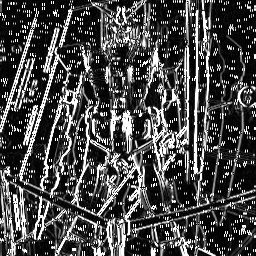
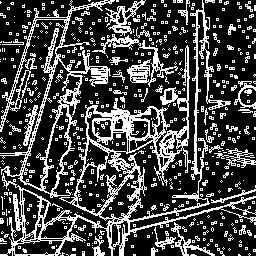
finish canny

diff --git a/hw2/README.m b/hw2/README.m
@@ -7,7 +7,9 @@
 % Email: iamyuanchung@gmail.com                                           %
 % ####################################################################### %
 % ####################################################################### %
-% Files: 1. README.m
+% Files: 1. README.m                                                      %
+%        2. sobelEdgeDetection.m                                          %
+%        ?. cannyEdgeDetection.m
 % ####################################################################### %
 % This script will first create a directory called 'rslt_images' under    %
 % current directory, and all the output .png figures will be stored       %
@@ -27,7 +29,7 @@ S8 = readraw('./raw/sample8.raw');
 
 % create a directory called 'rslt_images' and all the output .png figures
 % will be stored under it
-% mkdir('./', 'rslt_images');
+mkdir('./', 'rslt_images');
 
 % do not display figures during execution
 fig = figure;
@@ -39,22 +41,52 @@ set(fig, 'Visible', 'off');
 % ####################################################################### %
 % Implementation 1: Perform Sobel edge detection on S1, S2, and S3        %
 % M-file name: sobelEdgeDetection.m                                       %
-% Usage: [Gr, Gc, EM] = sobelEdgeDetection(G)                             %
+% Usage: [Gr, Gc, EM] = sobelEdgeDetection(G, T)                          %
 % Output: The resultant edge map(EM)                                      %
 % ####################################################################### %
 
-fprintf('\nPerforming Sobel edge detection on sample1.raw and the resultant edge map will be stored as sample1.sobel.png ...\n');
-[no_use0, no_use1, EM1] = sobelEdgeDetection(S1);
-imwrite(uint8(EM1), './rslt_images/sample1.sobel.png');
+% T1 = 100;
+% T2 = 200;
+% T3 = 150;
+% 
+% fprintf('\nPerforming Sobel edge detection on sample1.raw and the resultant edge map will be stored as sample1.sobel.png ...\n');
+% [no_use0, no_use1, EM1] = sobelEdgeDetection(S1, T1);
+% imwrite(uint8(EM1), './rslt_images/sample1.sobel.png');
+% 
+% fprintf('\nPerforming Sobel edge detection on sample2.raw and the resultant edge map will be stored as sample2.sobel.png ...\n');
+% [no_use2, no_use3, EM2] = sobelEdgeDetection(S2, T2);
+% imwrite(uint8(EM2), './rslt_images/sample2.sobel.png');
+% 
+% fprintf('\nPerforming Sobel edge detection on sample3.raw and the resultant edge map will be stored as sample3.sobel.png ...\n');
+% [no_use4, no_use5, EM3] = sobelEdgeDetection(S3, T3);
+% imwrite(uint8(EM3), './rslt_images/sample3.sobel.png');
 
-fprintf('\nPerforming Sobel edge detection on sample2.raw and the resultant edge map will be stored as sample2.sobel.png ...\n');
-[no_use2, no_use3, EM2] = sobelEdgeDetection(S2);
-imwrite(uint8(EM2), './rslt_images/sample2.sobel.png');
+% ####################################################################### %
+% Implementation 3: Perform Canny edge detection on S1, S2, and S3        %
+% M-file name: cannyEdgeDetection.m                                       %
+% Usage: EM = cannyEdgeDetection(G, T_high, T_low)                        %
+% Output: The resultant edge map(EM)                                      %
+% ####################################################################### %
 
-fprintf('\nPerforming Sobel edge detection on sample3.raw and the resultant edge map will be stored as sample3.sobel.png ...\n');
-[no_use4, no_use5, EM3] = sobelEdgeDetection(S3);
-imwrite(uint8(EM3), './rslt_images/sample3.sobel.png');
-
+% T1_low = 20;
+% T1_high = 80;
+% T2_low = 20;
+% T2_high = 80;
+% T3_low = 20;
+% T3_high = 80;
+% 
+% fprintf('\nPerforming Canny edge detection on sample1.raw and the resultant edge map will be stored as sample1.canny.png ...\n');
+% EM1 = cannyEdgeDetection(S1, T1_high, T1_low);
+% imwrite(uint8(EM1), './rslt_images/sample1.canny.png');
+% 
+% fprintf('\nPerforming Canny edge detection on sample2.raw and the resultant edge map will be stored as sample2.canny.png ...\n');
+% EM2 = cannyEdgeDetection(S2, T2_high, T2_low);
+% imwrite(uint8(EM2), './rslt_images/sample2.canny.png');
+% 
+% 
+% fprintf('\nPerforming Canny edge detection on sample3.raw and the resultant edge map will be stored as sample3.canny.png ...\n');
+% EM3 = cannyEdgeDetection(S3, T3_high, T3_low);
+% imwrite(uint8(EM3), './rslt_images/sample3.canny.png');
 
 % ####################################################################### %
 % ################# Problem 2: Geometrical Modification ################# %

diff --git a/hw2/sobelEdgeDetection.m b/hw2/sobelEdgeDetection.m
@@ -1,10 +1,10 @@
-function [Gr, Gc, EM] = sobelEdgeDetection(G)
+function [Gr, Gc, EM] = sobelEdgeDetection(G, T)
 % ####################################################################### %
 % sobelEdgeDetection: Perform Sobel edge detection on the given 2D image  %
 %                     matrix                                              %
 %                                                                         %
 %   Usage:                                                                %
-%       [Gr, Gc, EM] = sobelEdgeDetection(G)                              %
+%       [Gr, Gc, EM] = sobelEdgeDetection(G, T)                           %
 %                                                                         %
 %   Reference:                                                            %
 %       [1] https://en.wikipedia.org/wiki/Sobel_operator                  %
@@ -42,3 +42,6 @@ end
 
 % compute and store the gradient magnitude in EM (edge map)
 EM = (Gr .^ 2 + Gc .^ 2) .^ 0.5;
+
+% only gradient pixel > T can be the edge pixels
+EM = (EM > T) * 255.;
